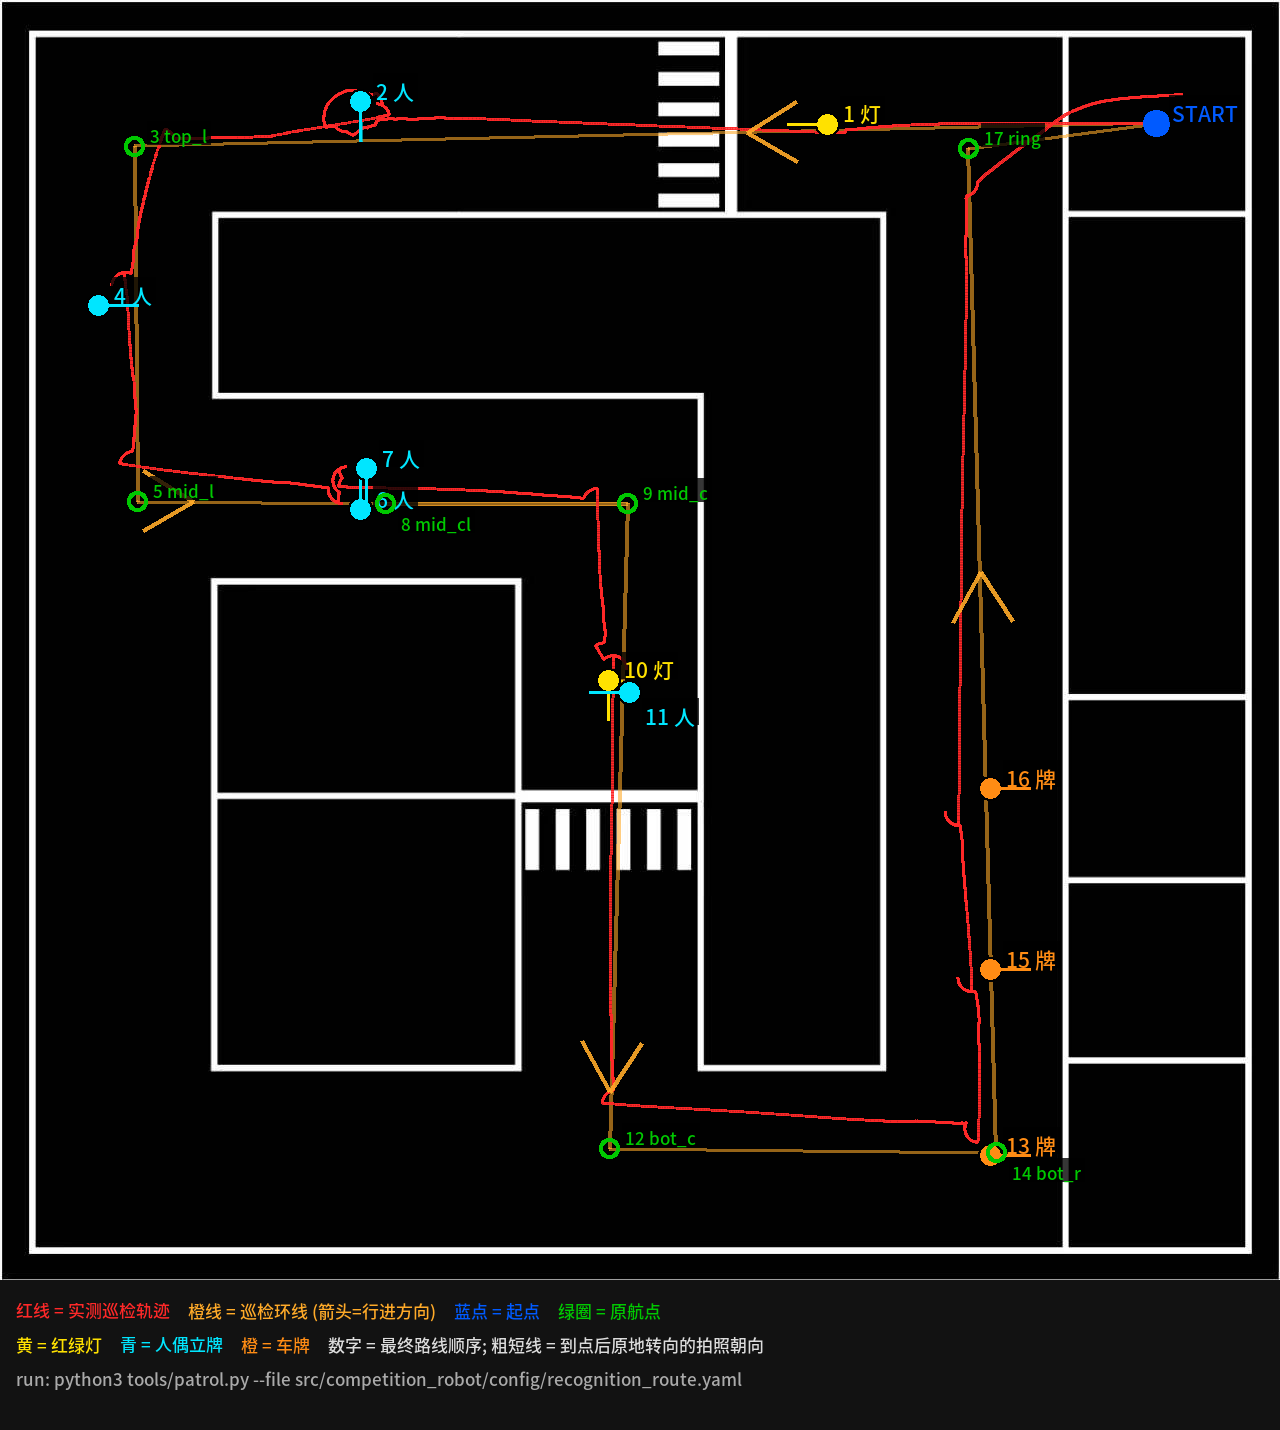
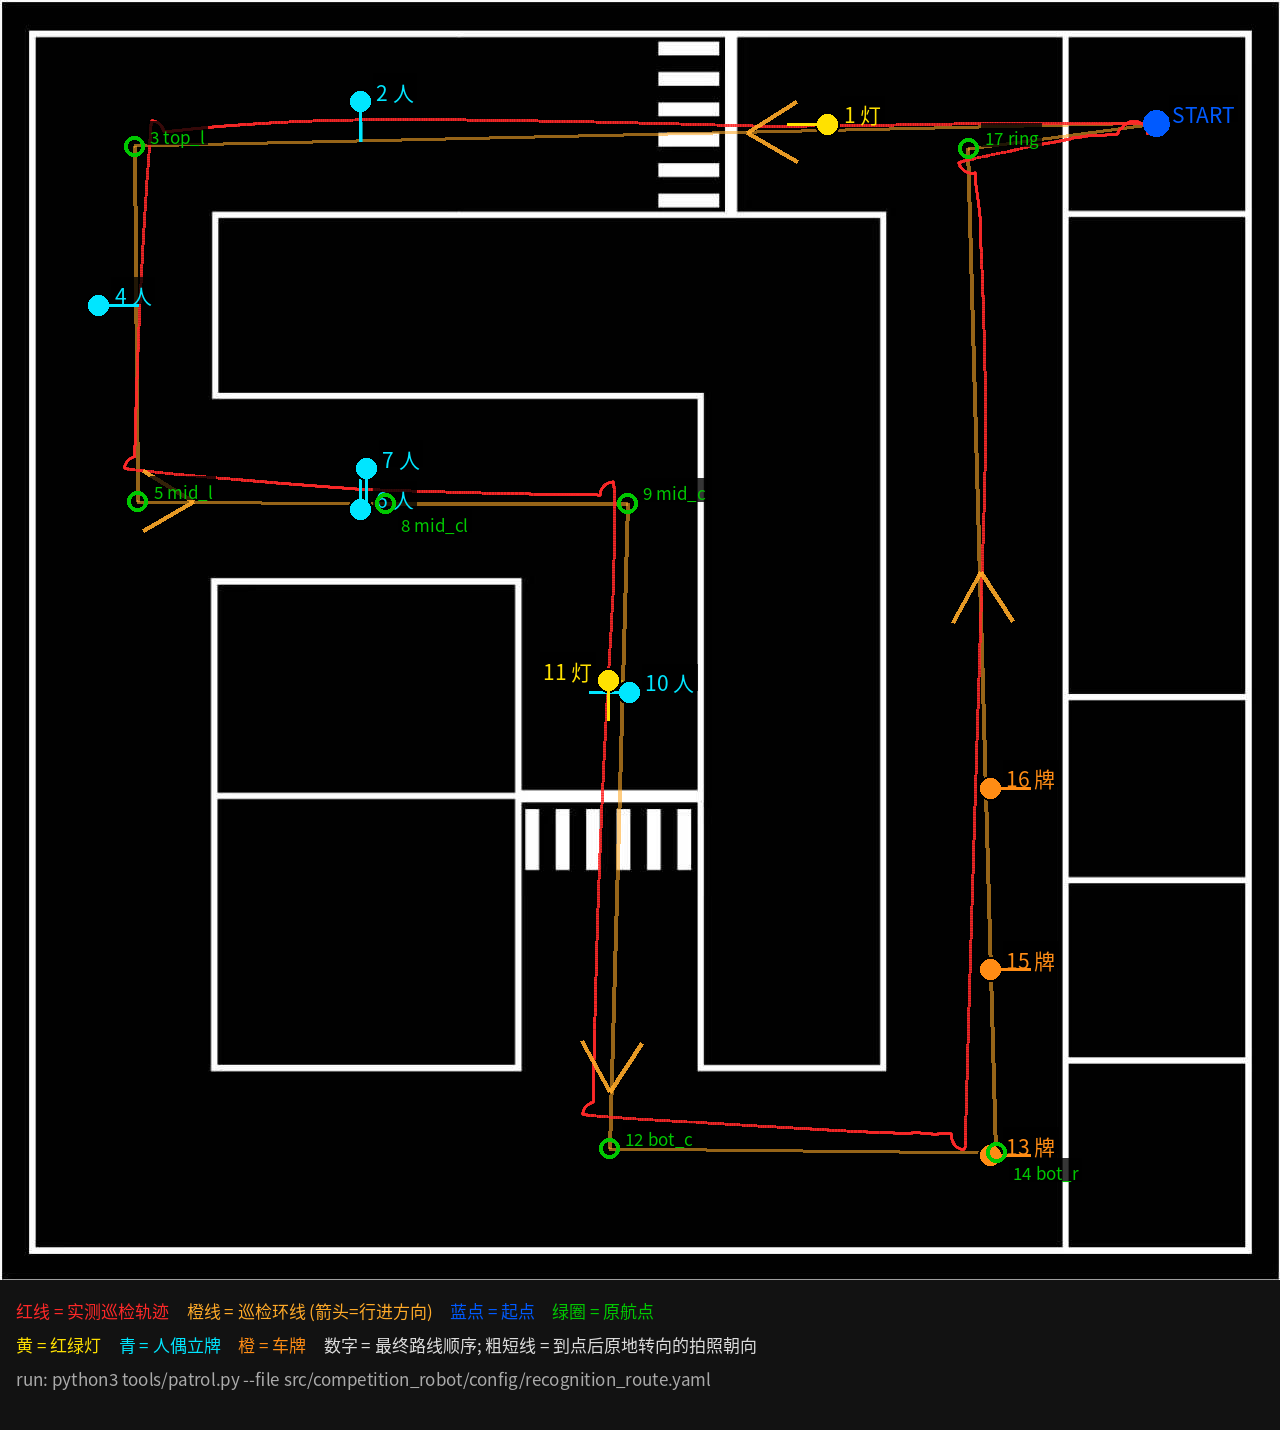
街区人偶对齐官方示意图 5/5 (从 A 匀一个到 B) + 验收补起识别节点
一、摆放改动: A 6/B 4 -> A 5/B 5
 官方示意图 A/B 街区各 5 个人偶, 而任务书要求"场地搭建须与示意图保持一致";
 原摆放是 A 6 (北2+南2+西2) / B 4 (北2+东2)。
 改法(不加新模型, 总数仍 10):
   A: 北 c01,c02 | 南 c03,c04 | 西 F1        = 5
   B: 北 c06,c07,c05 | 东 c08,F2             = 5
 选"把 A 西边的 c05 匀到 B 北边"的理由:
   * A 西边可用长度只有 0.101 m, 原先把 c05+F1 两个人塞进去(间距 0.090, 只剩 5mm 余量),
     本就偏挤; 只留 F1 后居中摆放更合理
   * A 保留 F1(非社区)、B 保留 F2(非社区) -> 两个街区各自都仍有"社区 + 非社区"两类,
     人群识别要区分类别, 这一点必须保住
   * B 北边可用 0.468 m, 放 3 个(间距 0.180)很宽松
 随之重新生成: world 的立牌 include (setup_standees.py)、识别点位、巡检路线。
 结果: 识别点位仍是 10 个(灯2+立牌5+车牌3)、路线仍是 17 站 -> **模型不用重训**。
 唯一变化的像素预算: A_west 立牌宽 110.2 -> 115.1 px(西边只剩更宽的 F1), 其余不变。
 setup_standees 的干涉检查: 10 个立牌都没压到红绿灯的脚 ✓

二、修验收脚本: 巡航前必须起识别节点(否则通行闸把"没人应答"当"没看到灯")
 issue #13 加了红绿灯通行闸后, acceptance.sh 只起仿真+导航、没起识别节点:
 patrol 发 /vision/request 无人订阅 -> 6s 超时拿到 None -> 闸当"没看到灯"
 -> 在第 1 站原地等满 light-max-wait 后结束本次运行 -> 巡航判失败(实测复现)。
 修法: 巡航前把 /traffic_light/command 复位 auto, 后台起 vision_detect.py --no-show
 并等它就绪, 巡航结束后关掉。真实用法本来就是导航+识别节点两个都在跑。

三、验收结果(重跑): 通过 7 项 / 失败 0 项
 场景(A5+B5) ✓ | 红绿灯 6/6 ✓ | 定位 1.34cm ✓ | 雷达位姿 2.7mm ✓
 巡航 17/17 ✓ | 倒车入库 0.0111m / 0.41° ✓ | 车道合规 7617 帧 0 压线 ✓

注: 本次未动 docs/issue_log.md 的条数 —— 报告多处引用"16 条问题记录",
   避免连锁改动; 改动理由记在本 commit 与 standees.yaml 注释里。

diff --git a/docs/recognition_points.md b/docs/recognition_points.md
@@ -27,13 +27,13 @@
 | `A_south` | standee | (-0.962, +0.458) | +90.0° | 0.500 m | 立牌宽 px 162.6 (阈值 40) | 1.00 | 71% | A/B 街区列 / 中车道 |
 
 > `A_south` 立牌在画面里高约 316 px。
-| `A_west` | standee | (-1.861, +1.157) | +0.0° | 0.500 m | 立牌宽 px 110.2 (阈值 40) | 1.00 | 75% | 左车道 / A 街区带 |
+| `A_west` | standee | (-1.861, +1.157) | +0.0° | 0.500 m | 立牌宽 px 115.1 (阈值 40) | 1.00 | 78% | 左车道 / A 街区带 |
 
 > `A_west` 立牌在画面里高约 316 px。
 | `B_east` | standee | (-0.038, -0.170) | -180.0° | 0.520 m | 立牌宽 px 123.1 (阈值 40) | 1.00 | 73% | 竖车道 / B 街区带 |
 
 > `B_east` 立牌在画面里高约 320 px。
-| `B_north` | standee | (-0.941, +0.596) | -90.0° | 0.550 m | 立牌宽 px 96.8 (阈值 40) | 1.00 | 76% | A/B 街区列 / 中车道 |
+| `B_north` | standee | (-0.941, +0.596) | -90.0° | 0.550 m | 立牌宽 px 96.8 (阈值 40) | 1.00 | 63% | A/B 街区列 / 中车道 |
 
 > `B_north` 立牌在画面里高约 316 px。
 | `car_1` | plate | (+1.201, -0.501) | +0.0° | 0.700 m | 车牌宽 px 156.7 (阈值 140) | 1.00 | 68% | 东竖车道 / B 街区带 |
